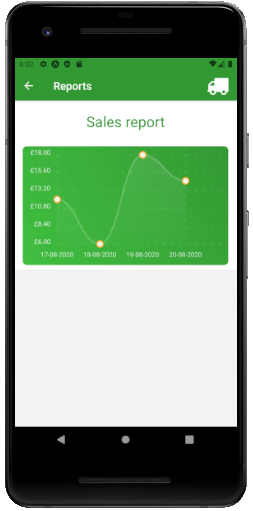
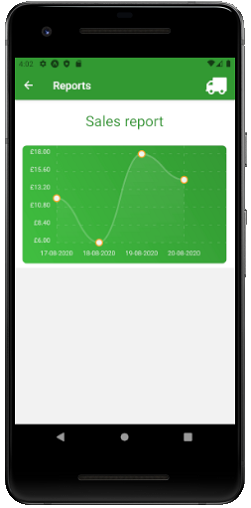
Update README: screenshot

diff --git a/src/views/ReportScreen.js b/src/views/ReportScreen.js
@@ -30,7 +30,7 @@ export default function ReportScreen () {
                 }
               ]
             }}
-            width={Dimensions.get("window").width - 50} // from react-native
+            width={Dimensions.get("window").width - 30} // from react-native
             height={220}
             yAxisLabel="£"
             yAxisInterval={3} // optional, defaults to 1
@@ -54,7 +54,7 @@ export default function ReportScreen () {
             segments={5}
             style={{
               marginVertical: 8,
-              marginHorizontal: 25,
+              marginHorizontal: 15,
               borderRadius: 8
             }}
           />
